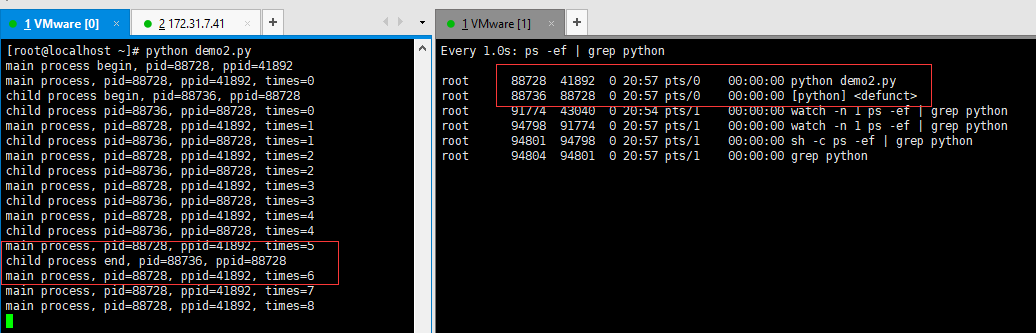
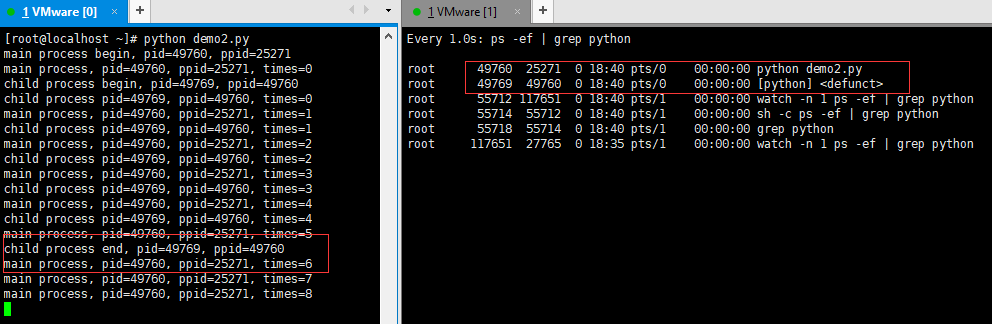
修改图片

diff --git a/source/_posts/基于Python初探Linux下的僵尸进程和孤儿进程-三.md b/source/_posts/基于Python初探Linux下的僵尸进程和孤儿进程-三.md
@@ -79,7 +79,7 @@ if __name__ == '__main__':
 
 # 场景抽象
 
-　　为了方便举例，将上述实际业务场景抽象成一个简单的demo：当主进程开始启动时，会新建一个子进程，此时子父进程是并行执行；当主进程执行了15秒后会再启动一个子进程(此处模拟再次消费kafka消息)，在新建子进程的时候上一个子进程已经结束；样例代码如下：
+　　为了方便举例，将上述实际业务场景抽象成一个简单的demo：当主进程开始启动时，会新建一个子进程，此时子父进程是并行执行；当主进程执行了10秒后会再启动一个子进程(此处模拟再次消费kafka消息)，在新建子进程的时候上一个子进程已经结束；样例代码如下：
 
 ```python
 # -*- coding: utf-8 -*-
@@ -102,7 +102,7 @@ class MainProcess:
         for i in range(self.main_process_time):
             print('main process, pid={0}, ppid={1}, times={2}'.format(os.getpid(), os.getppid(), i))
             time.sleep(1)
-            if i == 15:
+            if i == 10:
                 p = ChildProcess(self.child_process_time)
                 p.start()
 
@@ -127,7 +127,6 @@ if __name__ == '__main__':
     child_process_time = 5
     action = MainProcess(main_process_time, child_process_time)
     action.excutor()
-
 ```
 
 代码的执行逻辑如下所述：
